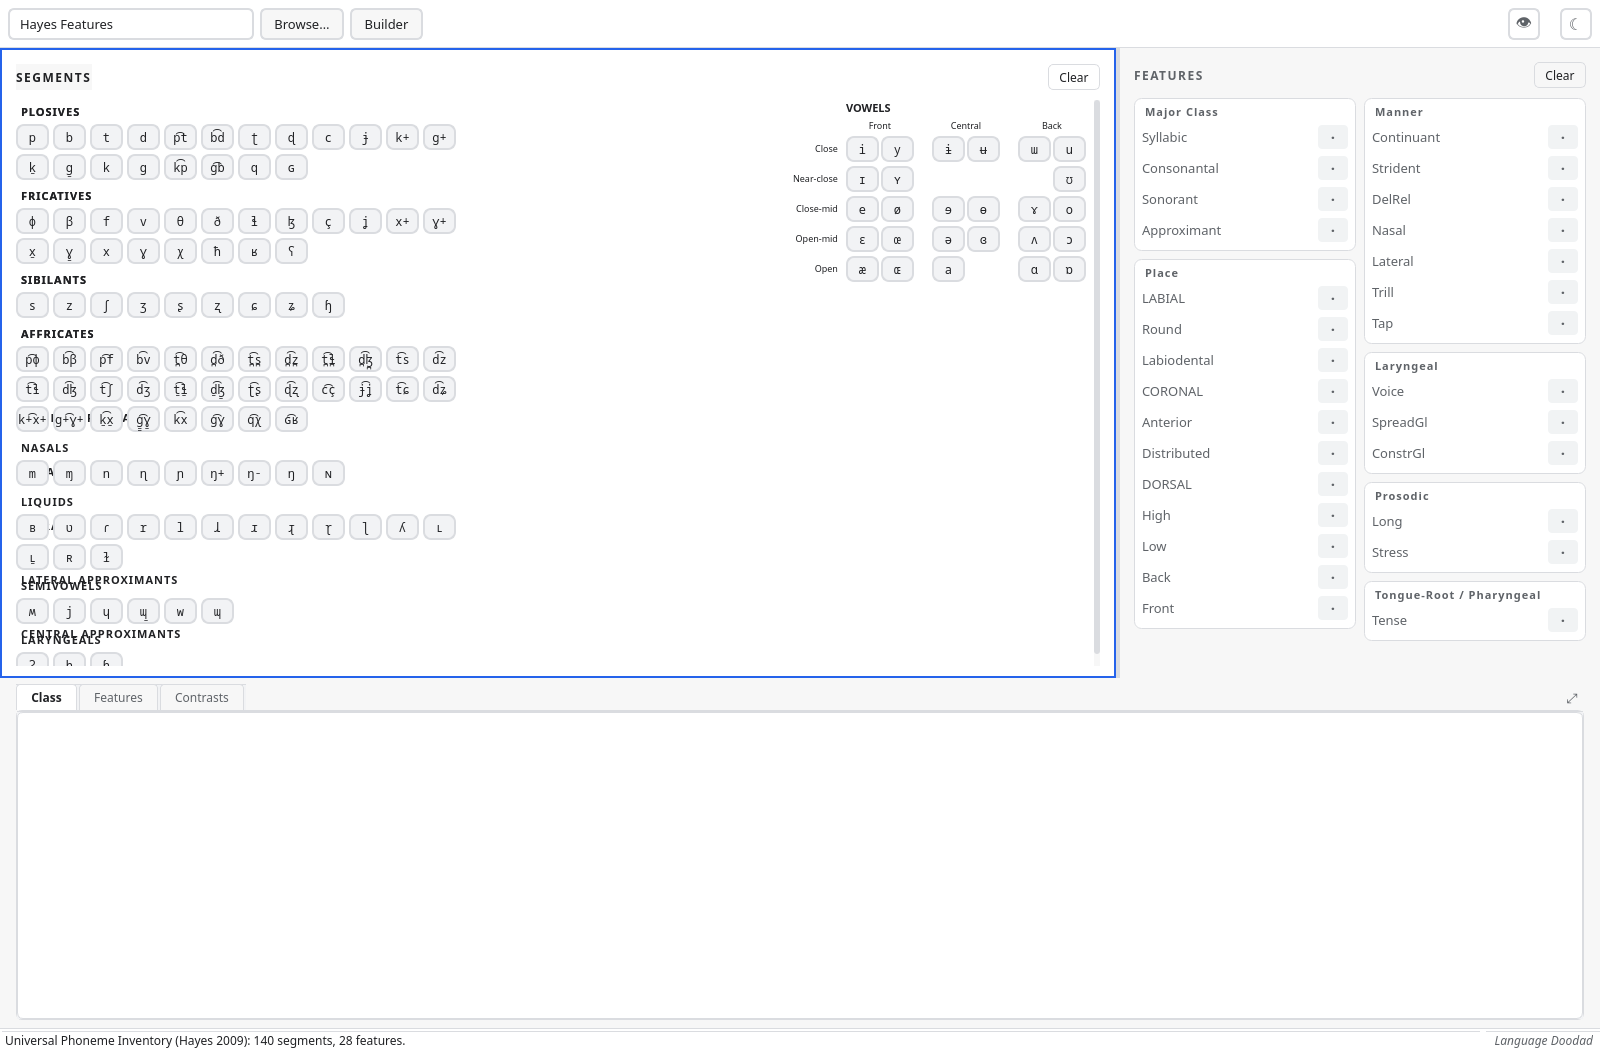
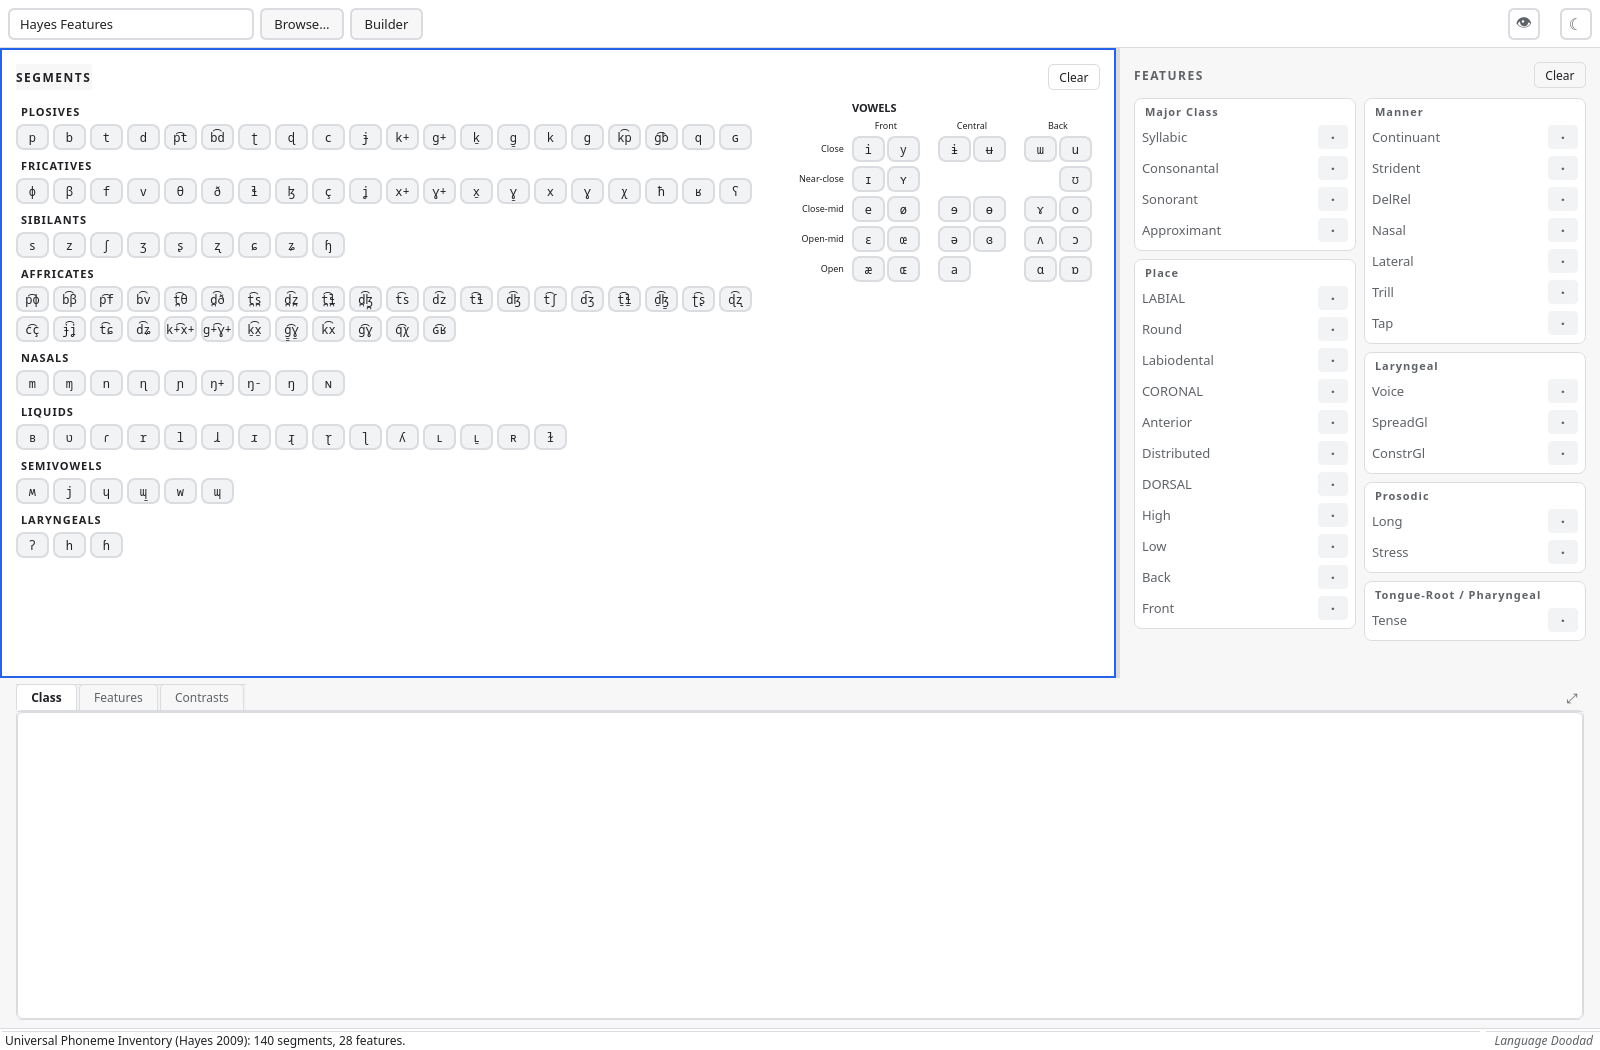
Add tooltip styling for consistent presentation across themes

diff --git a/web/style.css b/web/style.css
@@ -537,9 +537,11 @@ dialog input[type="text"]:focus-visible {
 /* Palette-aware tooltip for vowel-chart buttons. Replaces the
    browser-native ``title`` attribute (which picks up the host OS
    theme: a dark GTK / KDE setting renders dark-on-dark even when
-   the app is in lightmode). The pseudo-element uses ``--panel``
-   for background and ``--text`` for foreground so contrast tracks
-   the active theme. ``pointer-events: none`` keeps the tooltip
+   the app is in lightmode). The dedicated ``--tooltip-bg`` /
+   ``--tooltip-text`` tokens stay dark-surface + light-text in both
+   light and dark themes so the tooltip presentation is consistent
+   across themes (dark-theme tooltips are the visual reference the
+   light theme matches). ``pointer-events: none`` keeps the tooltip
    from intercepting clicks; positioning is absolute relative to
    the button (the button is ``position: relative`` via the
    vowel-chart-cell class). */
@@ -553,9 +555,9 @@ dialog input[type="text"]:focus-visible {
   left: 50%;
   bottom: calc(100% + 4px);
   transform: translateX(-50%);
-  background: var(--panel);
-  color: var(--text);
-  border: var(--border-thin) solid var(--border);
+  background: var(--tooltip-bg);
+  color: var(--tooltip-text);
+  border: var(--border-thin) solid var(--tooltip-bg);
   border-radius: var(--radius-sm);
   padding: 4px 8px;
   font-size: var(--font-size-meta);

diff --git a/app/src/phonology_features/gui/shared/palette.py b/app/src/phonology_features/gui/shared/palette.py
@@ -86,6 +86,13 @@ LIGHT = {
     # default-gray "not interactive" cue.
     "tag_purple": "#F1F3F4",
     "tag_purple_text": "#5F6368",
+    # Tooltip surface. Floats above the active panel as a high-contrast
+    # popover so hover text reads clearly even when the underlying
+    # surface is light. Kept dark in BOTH light and dark themes so the
+    # tooltip presentation is consistent across themes (the dark-theme
+    # tooltip is the visual reference the light theme matches).
+    "tooltip_bg": "#202124",
+    "tooltip_text": "#F7F7F7",
 }
 
 COLORBLIND_LIGHT = {
@@ -150,6 +157,10 @@ COLORBLIND_LIGHT = {
     "tag_purple_text": "#9A4F7F",
     "tag_gray": "#F1F3F4",
     "tag_gray_text": "#5F6368",
+    # See LIGHT.tooltip_bg comment. Same dark-on-light tooltip in
+    # colorblind light so hover popovers stay consistent across modes.
+    "tooltip_bg": "#202124",
+    "tooltip_text": "#F7F7F7",
 }
 
 COLORBLIND_DARK = {
@@ -206,6 +217,11 @@ COLORBLIND_DARK = {
     "tag_purple_text": "#D7A0D3",
     "tag_gray": "#2A2A2A",
     "tag_gray_text": "#B8B8B8",
+    # See LIGHT.tooltip_bg comment. Dark theme keeps its current
+    # tooltip look (dark panel + light text) so the cross-theme
+    # reference stays consistent.
+    "tooltip_bg": "#202020",
+    "tooltip_text": "#E8EAED",
 }
 
 DARK = {
@@ -272,6 +288,10 @@ DARK = {
     # See LIGHT.tag_purple comment.
     "tag_purple": "#2A2A2A",
     "tag_purple_text": "#B8B8B8",
+    # See LIGHT.tooltip_bg comment. Dark theme's tooltip is the
+    # cross-theme visual reference: dark surface, light text.
+    "tooltip_bg": "#202020",
+    "tooltip_text": "#E8EAED",
 }
 
 # Active palette, mutated in place by set_theme / set_palette_mode.

diff --git a/app/src/phonology_features/gui/style_utils.py b/app/src/phonology_features/gui/style_utils.py
@@ -68,8 +68,11 @@ def apply_tooltip_palette() -> None:
     from PyQt6.QtWidgets import QToolTip
 
     pal = QToolTip.palette()
-    pal.setColor(QPalette.ColorRole.ToolTipBase, QColor(C["panel"]))
-    pal.setColor(QPalette.ColorRole.ToolTipText, QColor(C["text"]))
+    # Dedicated tooltip tokens stay dark-on-light in both themes so
+    # the popover stays high-contrast against the active surface (and
+    # matches the web ``.seg-btn[data-tooltip]`` rule).
+    pal.setColor(QPalette.ColorRole.ToolTipBase, QColor(C["tooltip_bg"]))
+    pal.setColor(QPalette.ColorRole.ToolTipText, QColor(C["tooltip_text"]))
     QToolTip.setPalette(pal)
 
 